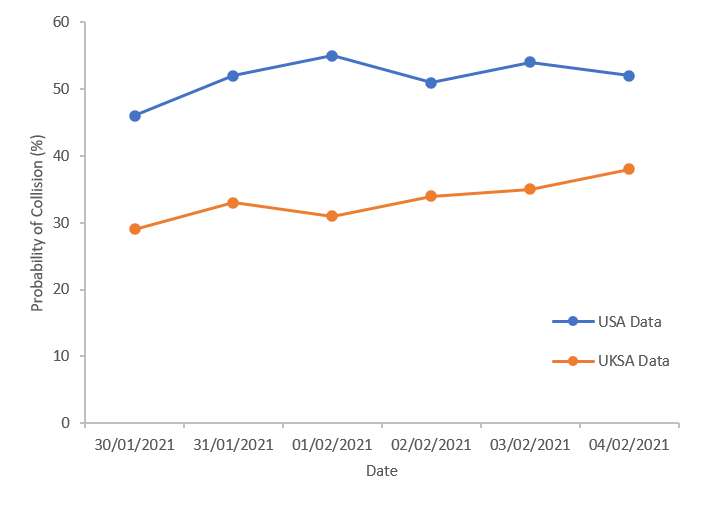
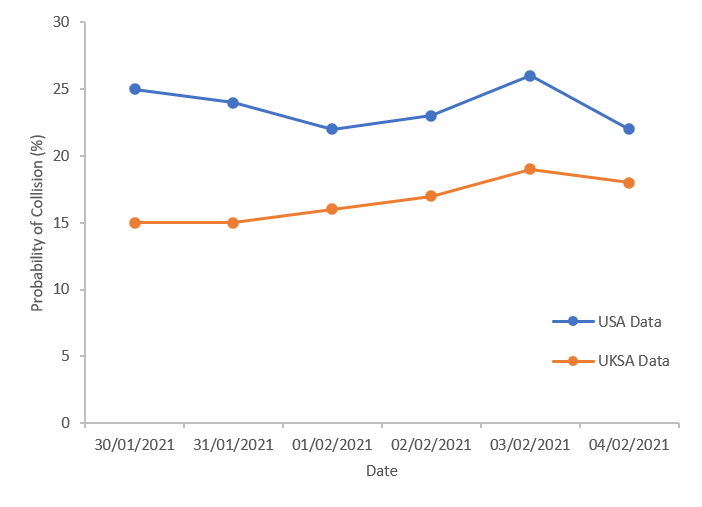
making thresholds more realistic

diff --git a/app/views/warning-1.html b/app/views/warning-1.html
@@ -28,11 +28,11 @@ My satellite environment
                 <tbody class="govuk-table__body">
                   <tr class="govuk-table__row">
                     <th scope="row" class="govuk-table__header govuk-!-width-one-half">Probability of collision (USA)</th>
-                    <td class="govuk-table__cell ">52%</td>
+                    <td class="govuk-table__cell ">22%</td>
                   </tr>
                   <tr class="govuk-table__row">
                     <th scope="row" class="govuk-table__header">Probability of collision (UKSA)</th>
-                    <td class="govuk-table__cell">38%</td>
+                    <td class="govuk-table__cell">18%</td>
                   </tr>
                   <tr class="govuk-table__row">
                     <th scope="row" class="govuk-table__header">Estimated time of conjunction event (UTC)</th>

diff --git a/app/views/operator-homepage.html b/app/views/operator-homepage.html
@@ -41,8 +41,8 @@ My satellite environment
               <td class="govuk-table__cell govuk-body-s"><a href="/operator-satellite-1">Starlink-1862</a></td>
               <td class="govuk-table__cell govuk-body-s">37</td>
               <td class="govuk-table__cell govuk-body-s">15</td>
-              <td class="govuk-table__cell govuk-body-s">52</td>
-              <td class="govuk-table__cell govuk-body-s">38</td>
+              <td class="govuk-table__cell govuk-body-s">22</td>
+              <td class="govuk-table__cell govuk-body-s">18</td>
               <td class="govuk-table__cell govuk-body-s">04/02/21 08:19</td>
 
             </tr>
